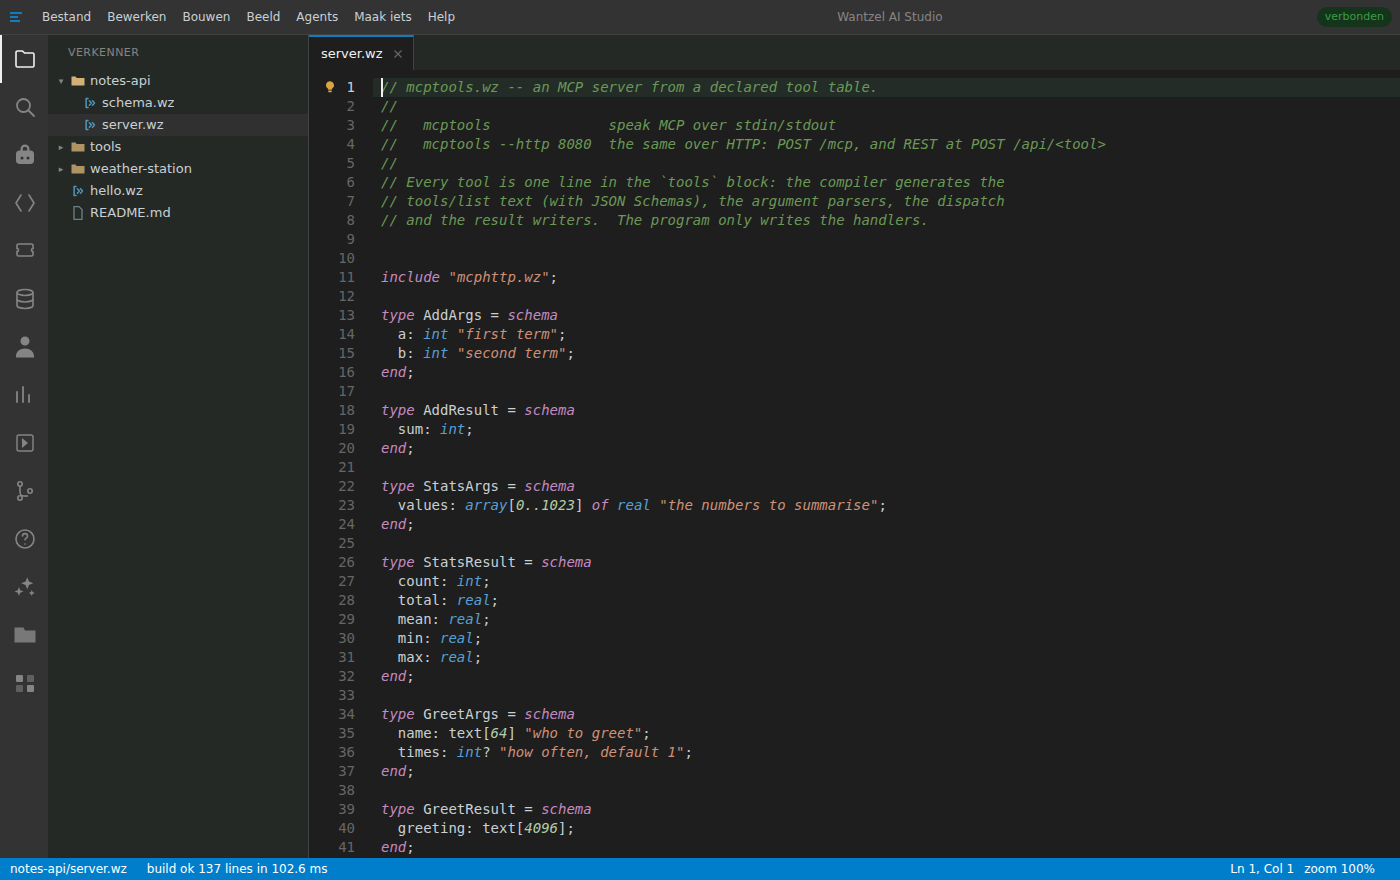
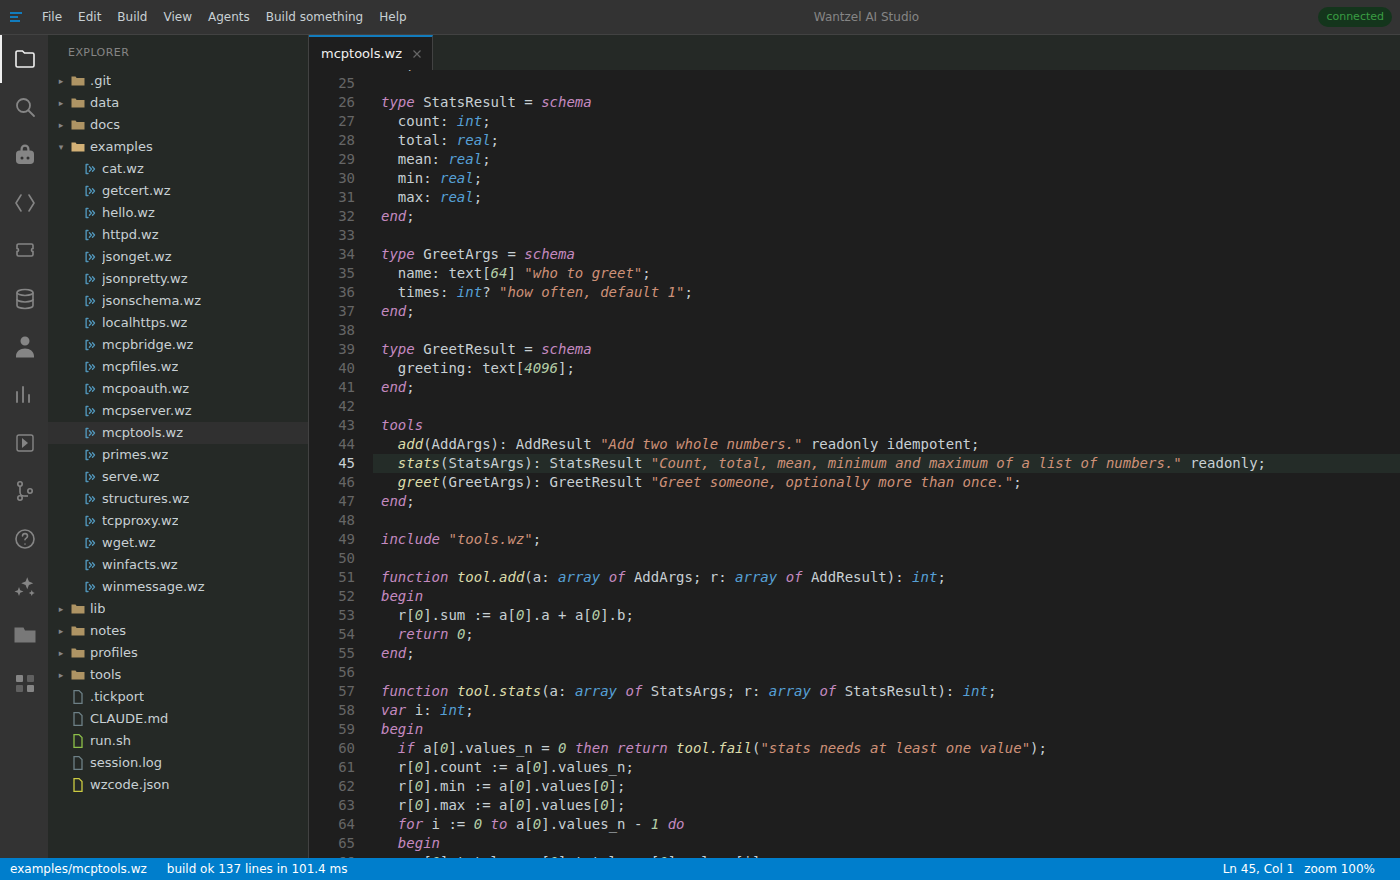
Studio page: new English screenshots, six more features shown
Profiles, the table browser, tickets, history, the commander and the
language help, each with a screenshot from a clean demo project.

diff --git a/studio/index.html b/studio/index.html
@@ -151,9 +151,10 @@
   stay MIT-licensed, always.</p>
 
   <figure>
-    <a class="zoom" href="img/1-editor.png"><img src="img/1-editor.png" alt="Wantzel AI Studio in the browser: a small MCP server open in the editor beside the explorer with three projects; the status bar reports the build."></a>
-    <figcaption>The editor, mid-session: real projects, a real build. The status bar is the
-    compiler's own report, not a mock-up.</figcaption>
+    <a class="zoom" href="img/1-editor.png"><img src="img/1-editor.png" alt="Wantzel AI Studio in the browser: mcptools.wz open in the editor, its tools block of three one-line tool declarations in view, the explorer beside it and 'build ok' in the status bar."></a>
+    <figcaption>An MCP server in the editor: three tools, one line each in a <code>tools</code>
+    block, and the compiler writes the rest. The status bar is the compiler's own report,
+    not a mock-up.</figcaption>
   </figure>
 </header>
 
@@ -202,27 +203,64 @@
     <h3>You set a breakpoint; the program stops where you said</h3>
     <p>Click a line to set a breakpoint, start debugging, step over, into and out. The
     variables are the program's real memory: globals, arrays, records, unfolded on demand.</p>
-    <figure><a class="zoom" href="img/2-debugger.png"><img src="img/2-debugger.png" alt="The debugger stopped on line 52 of primes.wz: the step bar at the top, the breakpoint on line 50, and the Variables view showing i = 2, j = 0, count = 0 and the composite array."></a></figure>
+    <figure><a class="zoom" href="img/2-debugger.png"><img src="img/2-debugger.png" alt="The debugger paused in primes.wz after a step from the breakpoint on line 20: the step bar at the top, the call stack putn above main, and the Variables view with locals and globals such as count = 17984 and the composite array."></a></figure>
   </section>
   <section>
     <h3>A mistake is explained where you made it</h3>
     <p>Errors appear while you type, before any build. The explanation comes from the same
     language help an agent reads, with a fix that compiles -- apply it yourself, or hand the
     error, its context and that help to an agent.</p>
-    <figure><a class="zoom" href="img/3-uitleg.png"><img src="img/3-uitleg.png" alt="A typo on line 50 underlined; the explanation beside it with the compiler message, the relevant help sections, a table of causes and fixes, two quick fixes and a Fix with agent button."></a></figure>
+    <figure><a class="zoom" href="img/3-explain.png"><img src="img/3-explain.png" alt="A typo on line 50 of structures.wz marked in the margin; the explanation above it with the compiler message 'undeclared identifier: totlk', the relevant help sections and a table of causes and fixes."></a></figure>
   </section>
   <section>
     <h3>An agent works in the same files you do</h3>
     <p>Pick the engine, ask in plain words, and watch the agent build, run and correct
     itself with the same tools you use by hand. Nothing happens in a window you cannot see.</p>
-    <figure><a class="zoom" href="img/4-agents.png"><img src="img/4-agents.png" alt="The agent panel beside the editor: an engine choice, the conversation, and the input line."></a></figure>
+    <figure><a class="zoom" href="img/4-agents.png"><img src="img/4-agents.png" alt="The agent panel beside the editor: an engine choice, the conversation area, and the input line with a Send button."></a></figure>
   </section>
   <section>
     <h3>Or just describe what you want</h3>
     <p>For people who do not program: describe the program in plain language. The studio
     has an agent write it, compiles it, lets the agent repair what does not compile, and
     runs it -- and you steer in plain language too.</p>
-    <figure><a class="zoom" href="img/5-maak-iets.png"><img src="img/5-maak-iets.png" alt="The Build Something screen: one large text field for a plain-language description and a button to make it."></a></figure>
+    <figure><a class="zoom" href="img/5-build-something.png"><img src="img/5-build-something.png" alt="The Build something screen: one large text field for a plain-language description, an agent choice and a Build it button."></a></figure>
+  </section>
+  <section>
+    <h3>Profiles give every agent a clear job</h3>
+    <p>A profile is a role in one sentence plus the instructions an agent starts with:
+    builder, tester, reviewer, and two dozen more. Switch them on, edit them, or write
+    your own.</p>
+    <figure><a class="zoom" href="img/6-profiles.png"><img src="img/6-profiles.png" alt="The profiles list grouped into software, general and care roles, with the builder profile selected."></a></figure>
+  </section>
+  <section>
+    <h3>Browse and edit the tables of your own app</h3>
+    <p>Point the table browser at any app that offers its tables over MCP. Filter, page
+    through the rows, and edit a field where the app allows it -- through the app's own
+    tools, so its validation still applies.</p>
+    <figure><a class="zoom" href="img/7-database.png"><img src="img/7-database.png" alt="The Database panel connected to a small demo app with three tables; the books table open as a grid of 24 rows, and the first row's fields beside it with the editable ones marked."></a></figure>
+  </section>
+  <section>
+    <h3>Tickets are a panel, and an agent can take one</h3>
+    <p>Search, read and change the status of your tickets beside the code. Give one to an
+    agent: it reads the ticket, writes the code, compiles it and logs what it did.</p>
+    <figure><a class="zoom" href="img/8-tickets.png"><img src="img/8-tickets.png" alt="The ticket panel: seven tickets with their number, priority and title, one of them open below with its description and the buttons Open as Document and Give to Agent."></a></figure>
+  </section>
+  <section>
+    <h3>History, one line per change</h3>
+    <p>The project's commits as a graph: message, hash, author and time, newest on top.</p>
+    <figure><a class="zoom" href="img/9-history.png"><img src="img/9-history.png" alt="The history panel listing nine commits with message, short hash, author and date."></a></figure>
+  </section>
+  <section>
+    <h3>Two panes for files, keyboard first</h3>
+    <p>A commander in the sidebar: two folders side by side, and view, edit, copy, move,
+    make a folder and delete on the function keys.</p>
+    <figure><a class="zoom" href="img/10-commander.png"><img src="img/10-commander.png" alt="The commander: two file panes side by side on the project folder, and a row of function-key actions below them."></a></figure>
+  </section>
+  <section>
+    <h3>The language help is built in</h3>
+    <p>The same documentation the agents read, in a panel: topics, pitfalls, examples and
+    shortcuts, searchable, with code you can copy.</p>
+    <figure><a class="zoom" href="img/11-help.png"><img src="img/11-help.png" alt="The help panel with a search field, buttons for pitfalls, ecosystem, examples and shortcuts, the list of topics, and the tour with a code sample."></a></figure>
   </section>
 </div>
 
